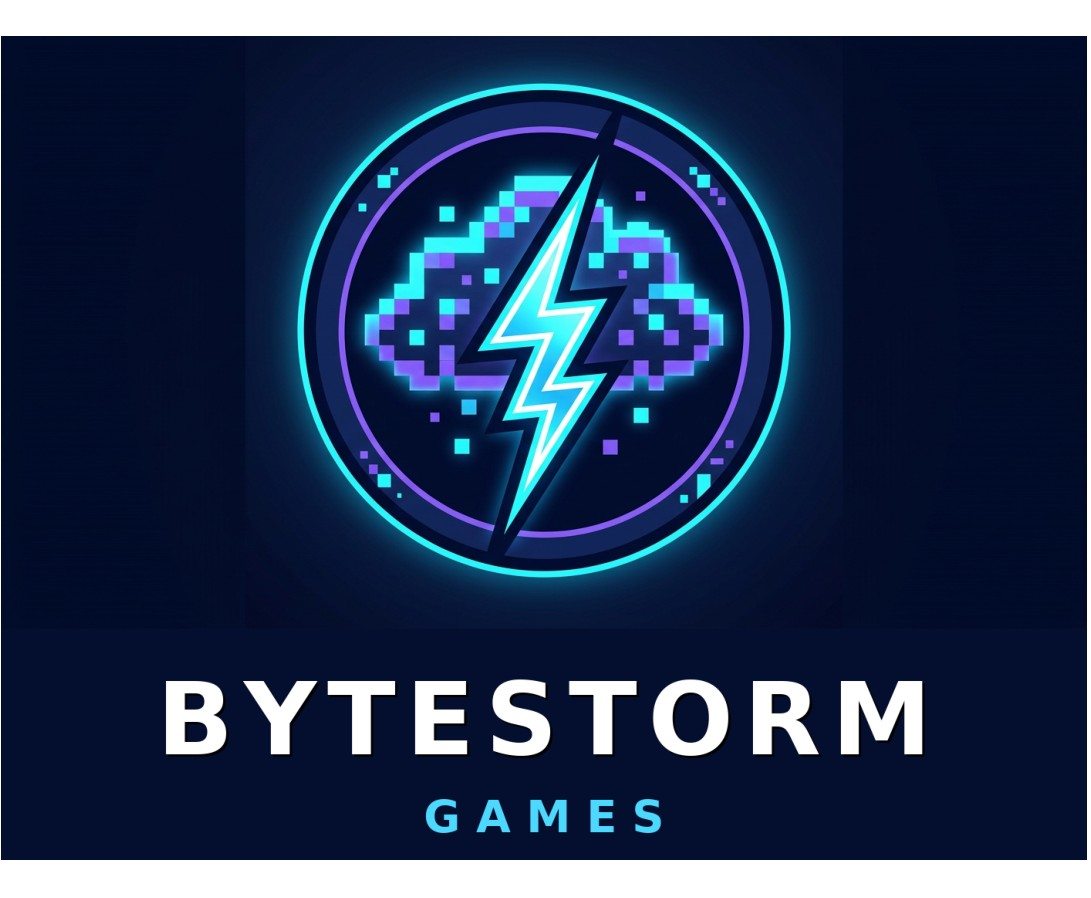
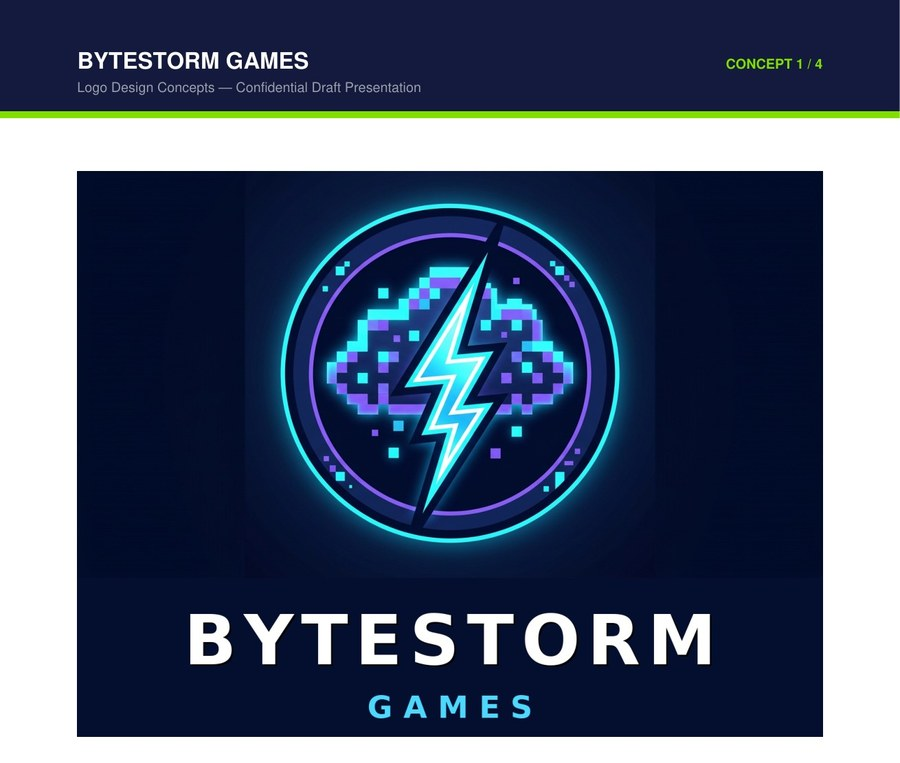
Work cards: show each project's own work
- ToolForge was displaying assets/og-card.png, which is this site's own
  social card, not ToolForge. No ToolForge screenshot exists, so the
  card now carries its actual SEO routes in a typeset panel instead of
  borrowing an unrelated image.
- Design card now shows the Bytestorm logo concept deck. The previous
  exotask-tile.jpg crop was mostly empty paper.
- Client quote is a blockquote, not a hyperlink to an anchor.

diff --git a/site/index.html b/site/index.html
@@ -131,12 +131,18 @@ section > .wrap > p.intro{color:var(--soft);max-width:46em;margin:14px 0 0;font-
 .work{display:grid;grid-template-columns:repeat(3,1fr);gap:20px;margin-top:38px}
 .wcard{background:var(--card);border:1px solid var(--rule);border-radius:13px;overflow:hidden;display:flex;flex-direction:column}
 .wcard img{display:block;width:100%;height:160px;object-fit:cover;object-position:top center;border-bottom:1px solid var(--rule)}
+.wcard .routes{height:160px;border-bottom:1px solid var(--rule);background:var(--ink);display:flex;
+  flex-direction:column;justify-content:center;gap:9px;padding:0 22px}
+.wcard .routes span{font:400 12.5px/1 var(--mono);color:#9fd3b6}
+.wcard .routes span:last-child{color:#7a736a}
 .wcard .body{padding:22px 22px 24px;display:flex;flex-direction:column;flex:1}
 .wcard .st{font:600 10.5px/1 var(--mono);letter-spacing:.14em;text-transform:uppercase;color:var(--green)}
 .wcard h3{font-size:19px;margin:11px 0 0}
 .wcard p{font-size:14.5px;color:var(--soft);margin:10px 0 0}
 .wcard .lk{margin-top:auto;padding-top:18px;font:600 13.5px/1 var(--sans)}
 .wcard .lk a{color:var(--green);text-decoration:none;border-bottom:1px solid currentColor;padding-bottom:2px}
+.wcard .quote{margin:auto 0 0;padding:16px 0 0;font:600 15px/1.5 var(--serif);color:var(--ink)}
+.wcard .quote cite{display:block;font:400 12px/1.5 var(--mono);color:var(--faint);font-style:normal;margin-top:7px}
 @media(max-width:900px){.work{grid-template-columns:1fr}}
 
 /* ---------- background ---------- */
@@ -359,7 +365,10 @@ footer a{color:#8e887d;text-decoration:none}footer a:hover{color:#f2efe8}
         </div>
       </div>
       <div class="wcard">
-        <img src="assets/og-card.png" alt="ToolForge">
+        <div class="routes" aria-hidden="true">
+          <span>/ai-text-humanizer</span><span>/youtube-title-generator</span>
+          <span>/linkedin-formatter</span><span>+ 3 more routes</span>
+        </div>
         <div class="body">
           <span class="st">● Live · SEO engine</span>
           <h3>ToolForge</h3>
@@ -369,13 +378,13 @@ footer a{color:#8e887d;text-decoration:none}footer a:hover{color:#f2efe8}
         </div>
       </div>
       <div class="wcard">
-        <img src="assets/exotask-tile.jpg" alt="Exotask letterhead">
+        <img src="assets/bytestorm-tile.jpg" alt="Bytestorm Games logo concept deck">
         <div class="body">
           <span class="st">● 2 engagements · 1 returning client</span>
           <h3>Exotask &amp; Bytestorm</h3>
           <p>A corporate letterhead system delivered press-ready, revision rounds included. The client
           came straight back with a second brand for a four-direction logo deck.</p>
-          <div class="lk"><a href="#contact">“Nice. Well done.” — Chidera Ike, Principal, Exotask Ltd</a></div>
+          <blockquote class="quote">“Nice. Well done.”<cite>Chidera Ike · Principal, Exotask Ltd</cite></blockquote>
         </div>
       </div>
     </div>
